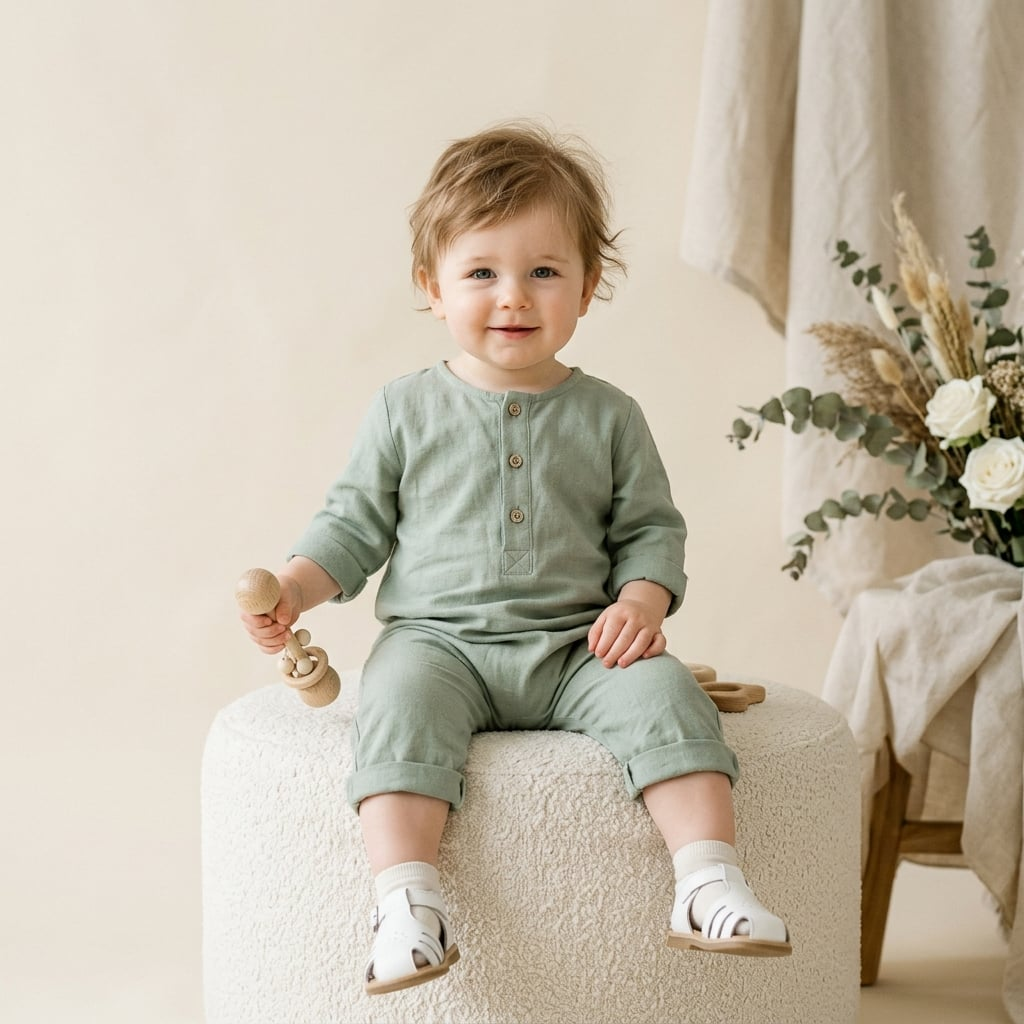
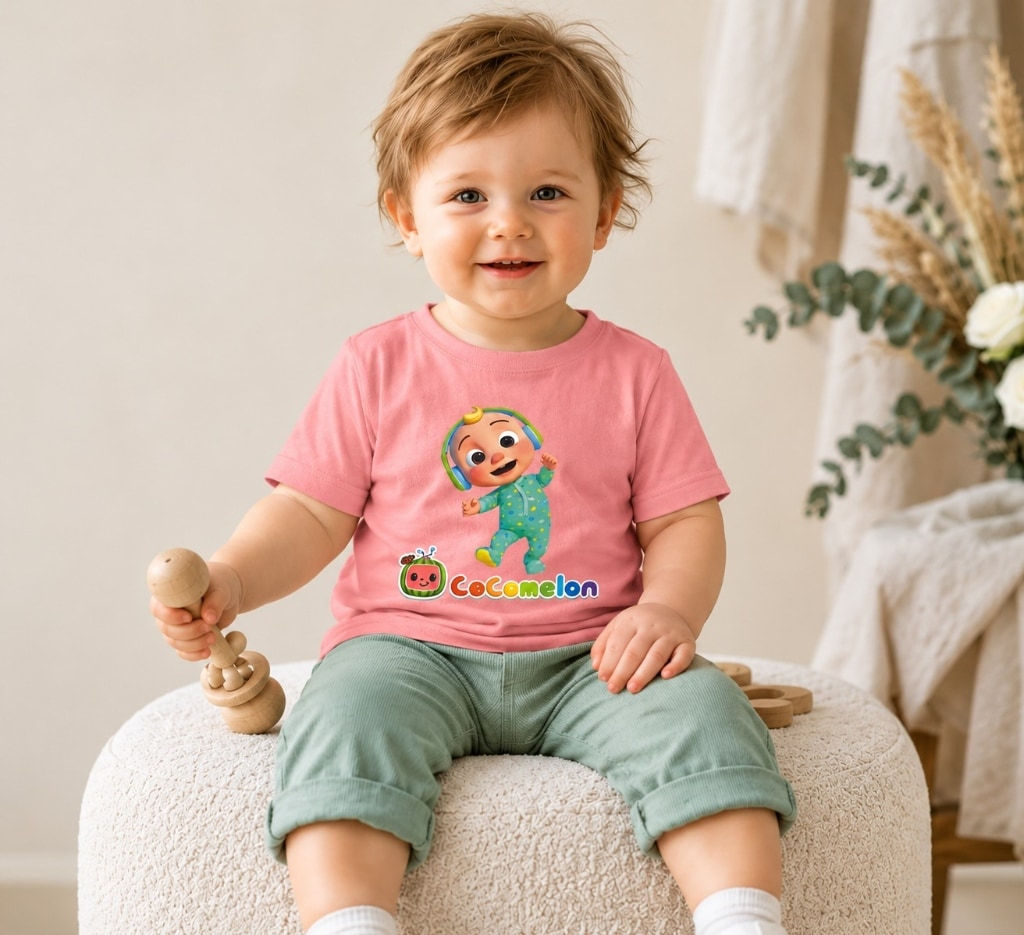
feat(home): replace The Little Edit image with Cocomelon toddler photo and update price to LKR 450

diff --git a/frontend/components/home/TheLittleEdit.tsx b/frontend/components/home/TheLittleEdit.tsx
@@ -171,12 +171,13 @@ export function TheLittleEdit() {
 
               {/* Visual Anchor & Secondary Decorative Floating Cutouts */}
               <div className="lg:col-span-7 relative z-10 flex justify-center">
-                <div className="relative w-full max-w-lg aspect-[4/3] rounded-[30px] overflow-hidden shadow-2xl border-4 border-white/95 bg-gradient-to-br from-sky-50 to-pink-50">
+                <div className="relative w-full max-w-lg aspect-[1024/935] rounded-[30px] overflow-hidden shadow-2xl border-4 border-white/95 bg-gradient-to-br from-sky-50 to-pink-50">
                   <Image
-                    src="/images/products/baby-boy-adventure.jpg"
-                    alt="The Little Edit Curation"
+                    src="/images/products/cocomelon-tshirt-lifestyle.jpg"
+                    alt="The Little Edit Cocomelon T-Shirt"
                     fill
-                    className="object-cover transition-transform duration-700 hover:scale-105"
+                    priority
+                    className="object-cover object-[center_top] transition-transform duration-700 hover:scale-103"
                   />
 
                   {/* Floating Secondary Decorative Product Card */}
@@ -184,24 +185,24 @@ export function TheLittleEdit() {
                     animate={{ y: [0, -8, 0] }}
                     transition={{ duration: 4, repeat: Infinity, ease: 'easeInOut' }}
                     whileHover={{ scale: 1.05 }}
-                    className="absolute bottom-4 left-4 p-3 bg-white/95 backdrop-blur-md rounded-2xl shadow-xl border border-white/95 flex items-center space-x-3 max-w-[210px]"
+                    className="absolute bottom-4 left-4 p-2.5 sm:p-3 bg-white/95 backdrop-blur-md rounded-2xl shadow-xl border border-white/95 flex items-center space-x-3 max-w-[210px] z-20"
                   >
-                    <div className="w-11 h-11 rounded-xl overflow-hidden relative flex-shrink-0 border border-emerald-100 shadow-inner">
+                    <div className="w-11 h-11 rounded-xl overflow-hidden relative flex-shrink-0 border border-pink-100 shadow-inner">
                       <Image
-                        src="/images/products/organic-onesie.jpg"
-                        alt="Organic Onesie"
+                        src="/images/products/cocomelon-tshirt-thumb.jpg"
+                        alt="Cocomelon T-Shirt"
                         fill
                         className="object-cover"
                       />
                     </div>
                     <div>
-                      <p className="text-xs font-extrabold text-slate-900 font-heading truncate">Sage Onesie Set</p>
-                      <p className="text-[11px] text-emerald-600 font-extrabold mt-0.5">LKR 3,850</p>
+                      <p className="text-xs font-extrabold text-slate-900 font-heading truncate">Cocomelon T-Shirt</p>
+                      <p className="text-[11px] text-pink-600 font-extrabold mt-0.5">LKR 450</p>
                     </div>
                   </motion.div>
 
                   {/* Floating Decorative Badge */}
-                  <div className="absolute top-4 right-4 bg-white/95 backdrop-blur-md px-3.5 py-1.5 rounded-full shadow-md border border-pink-100 flex items-center space-x-1.5 text-xs font-extrabold text-slate-800">
+                  <div className="absolute top-4 right-4 bg-white/95 backdrop-blur-md px-3.5 py-1.5 rounded-full shadow-md border border-pink-100 flex items-center space-x-1.5 text-xs font-extrabold text-slate-800 z-20">
                     <Heart className="w-3.5 h-3.5 text-pink-500 fill-pink-400" />
                     <span>Editor Choice</span>
                   </div>
